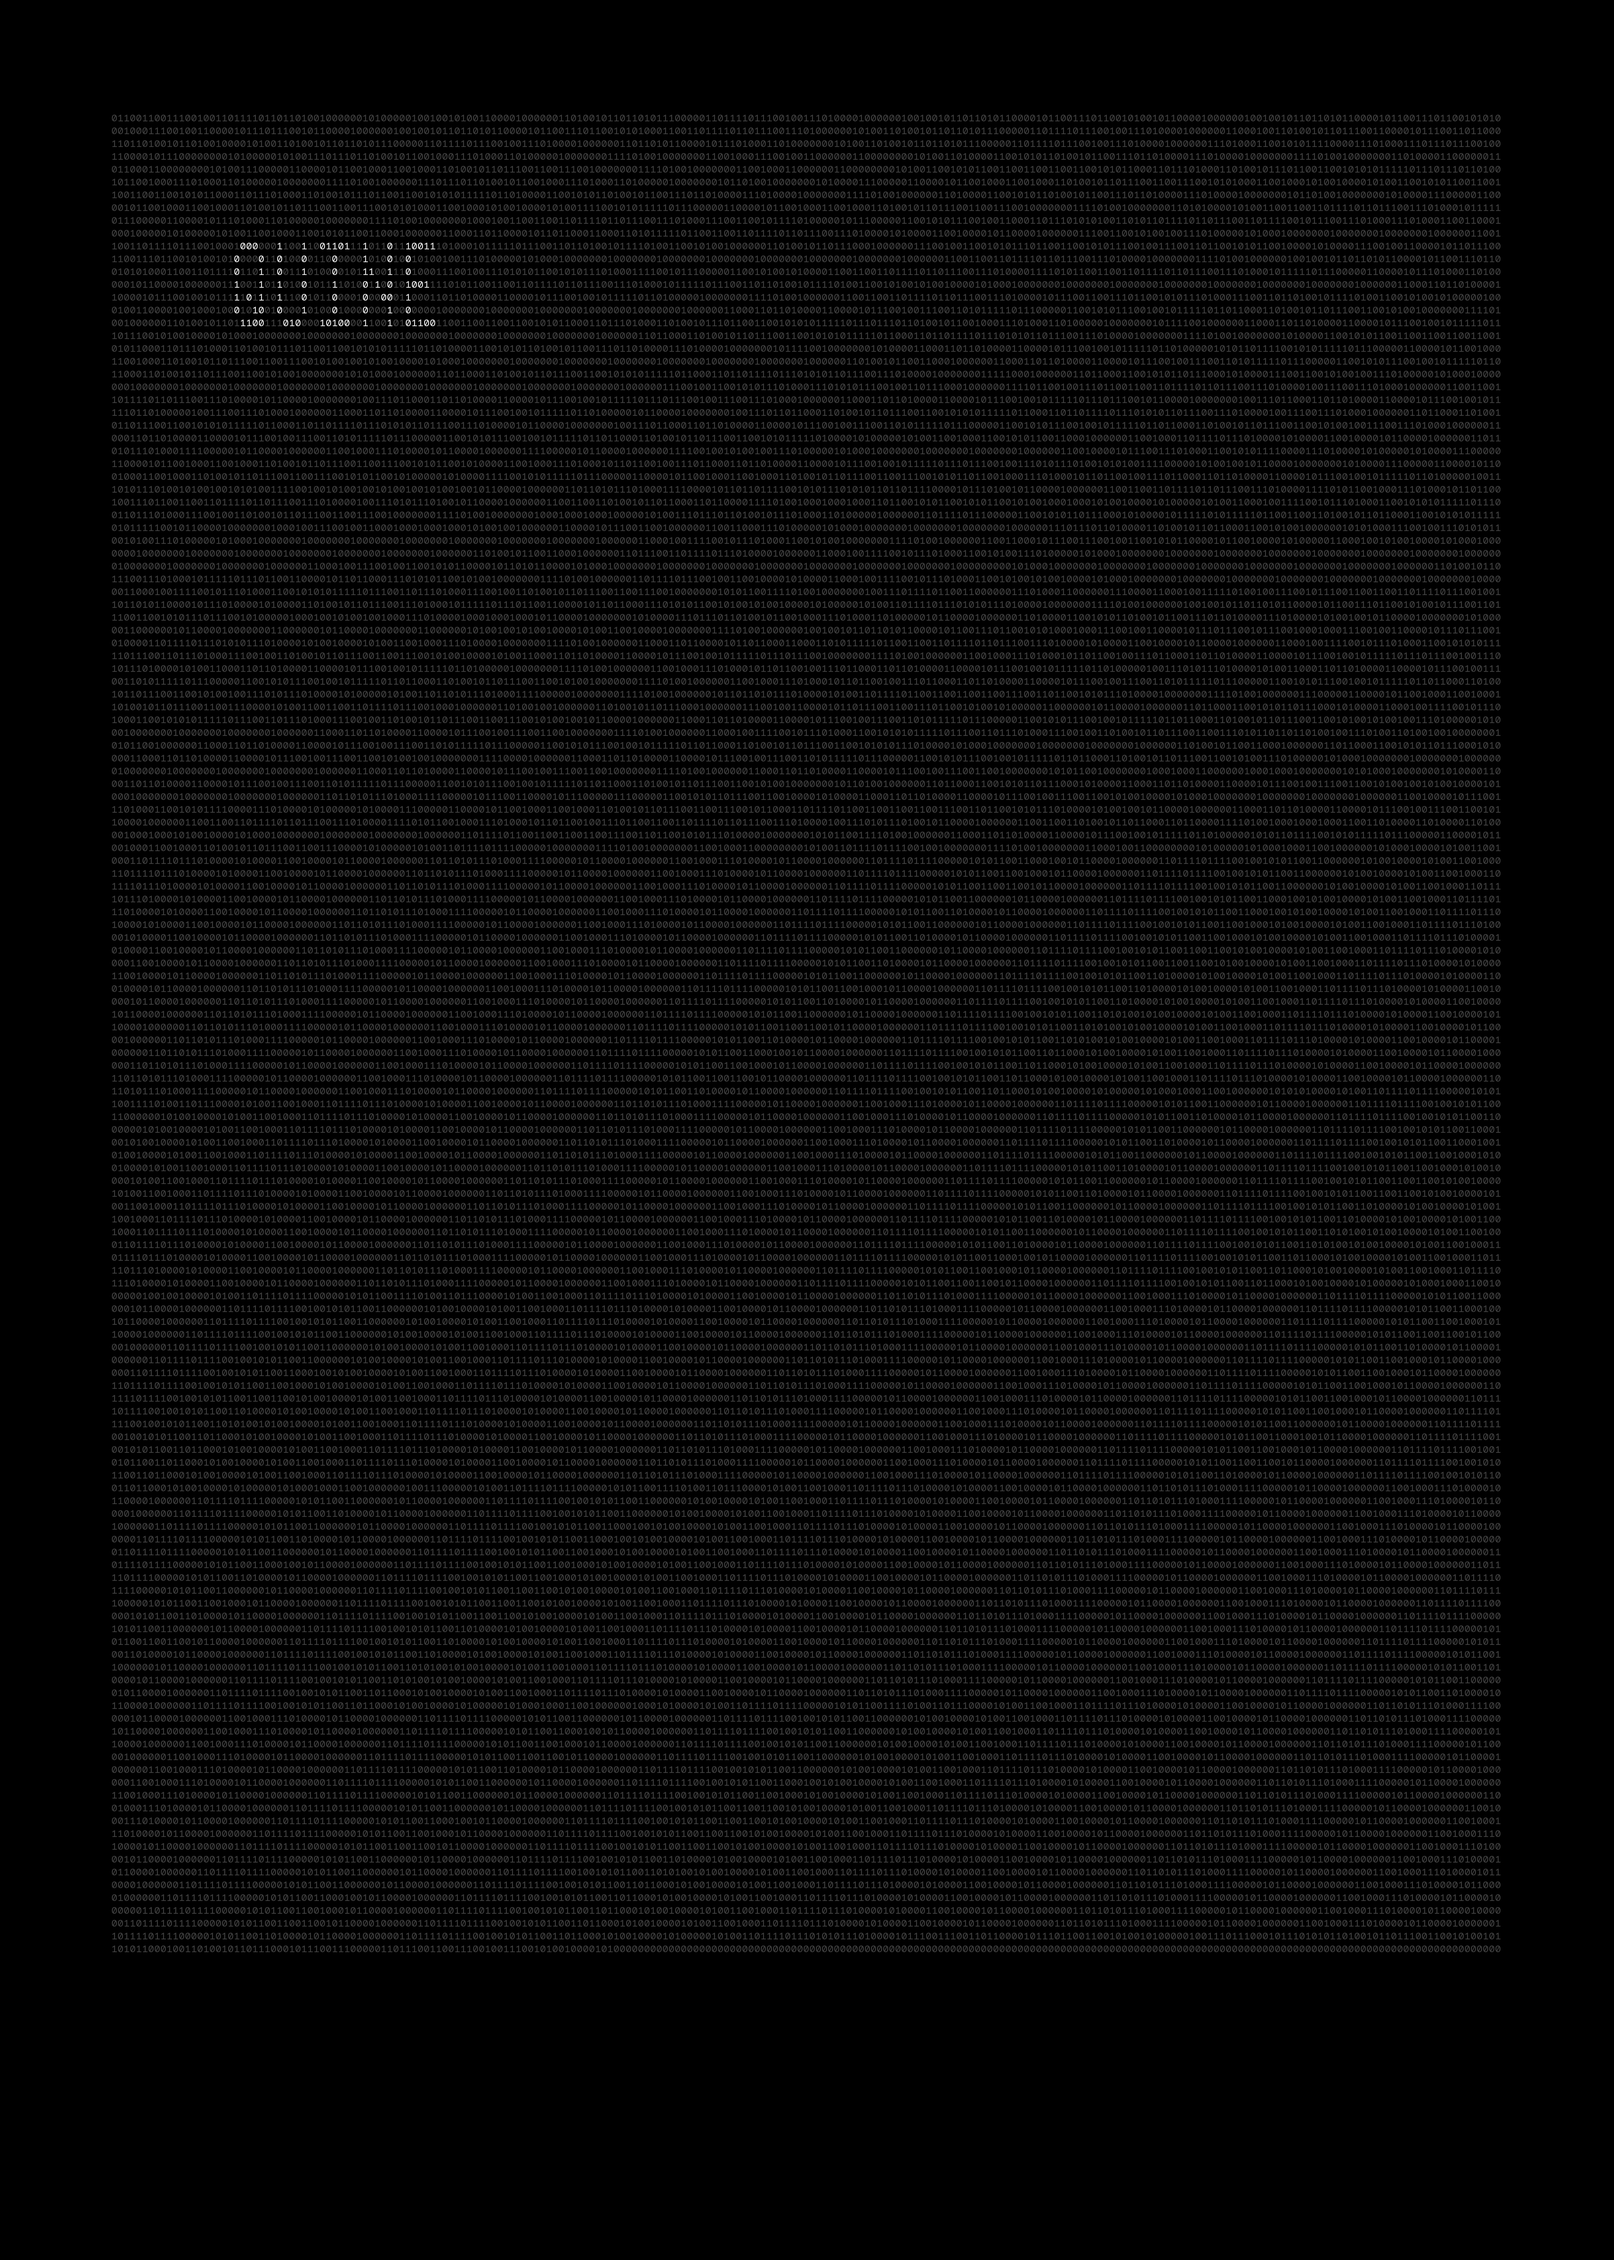
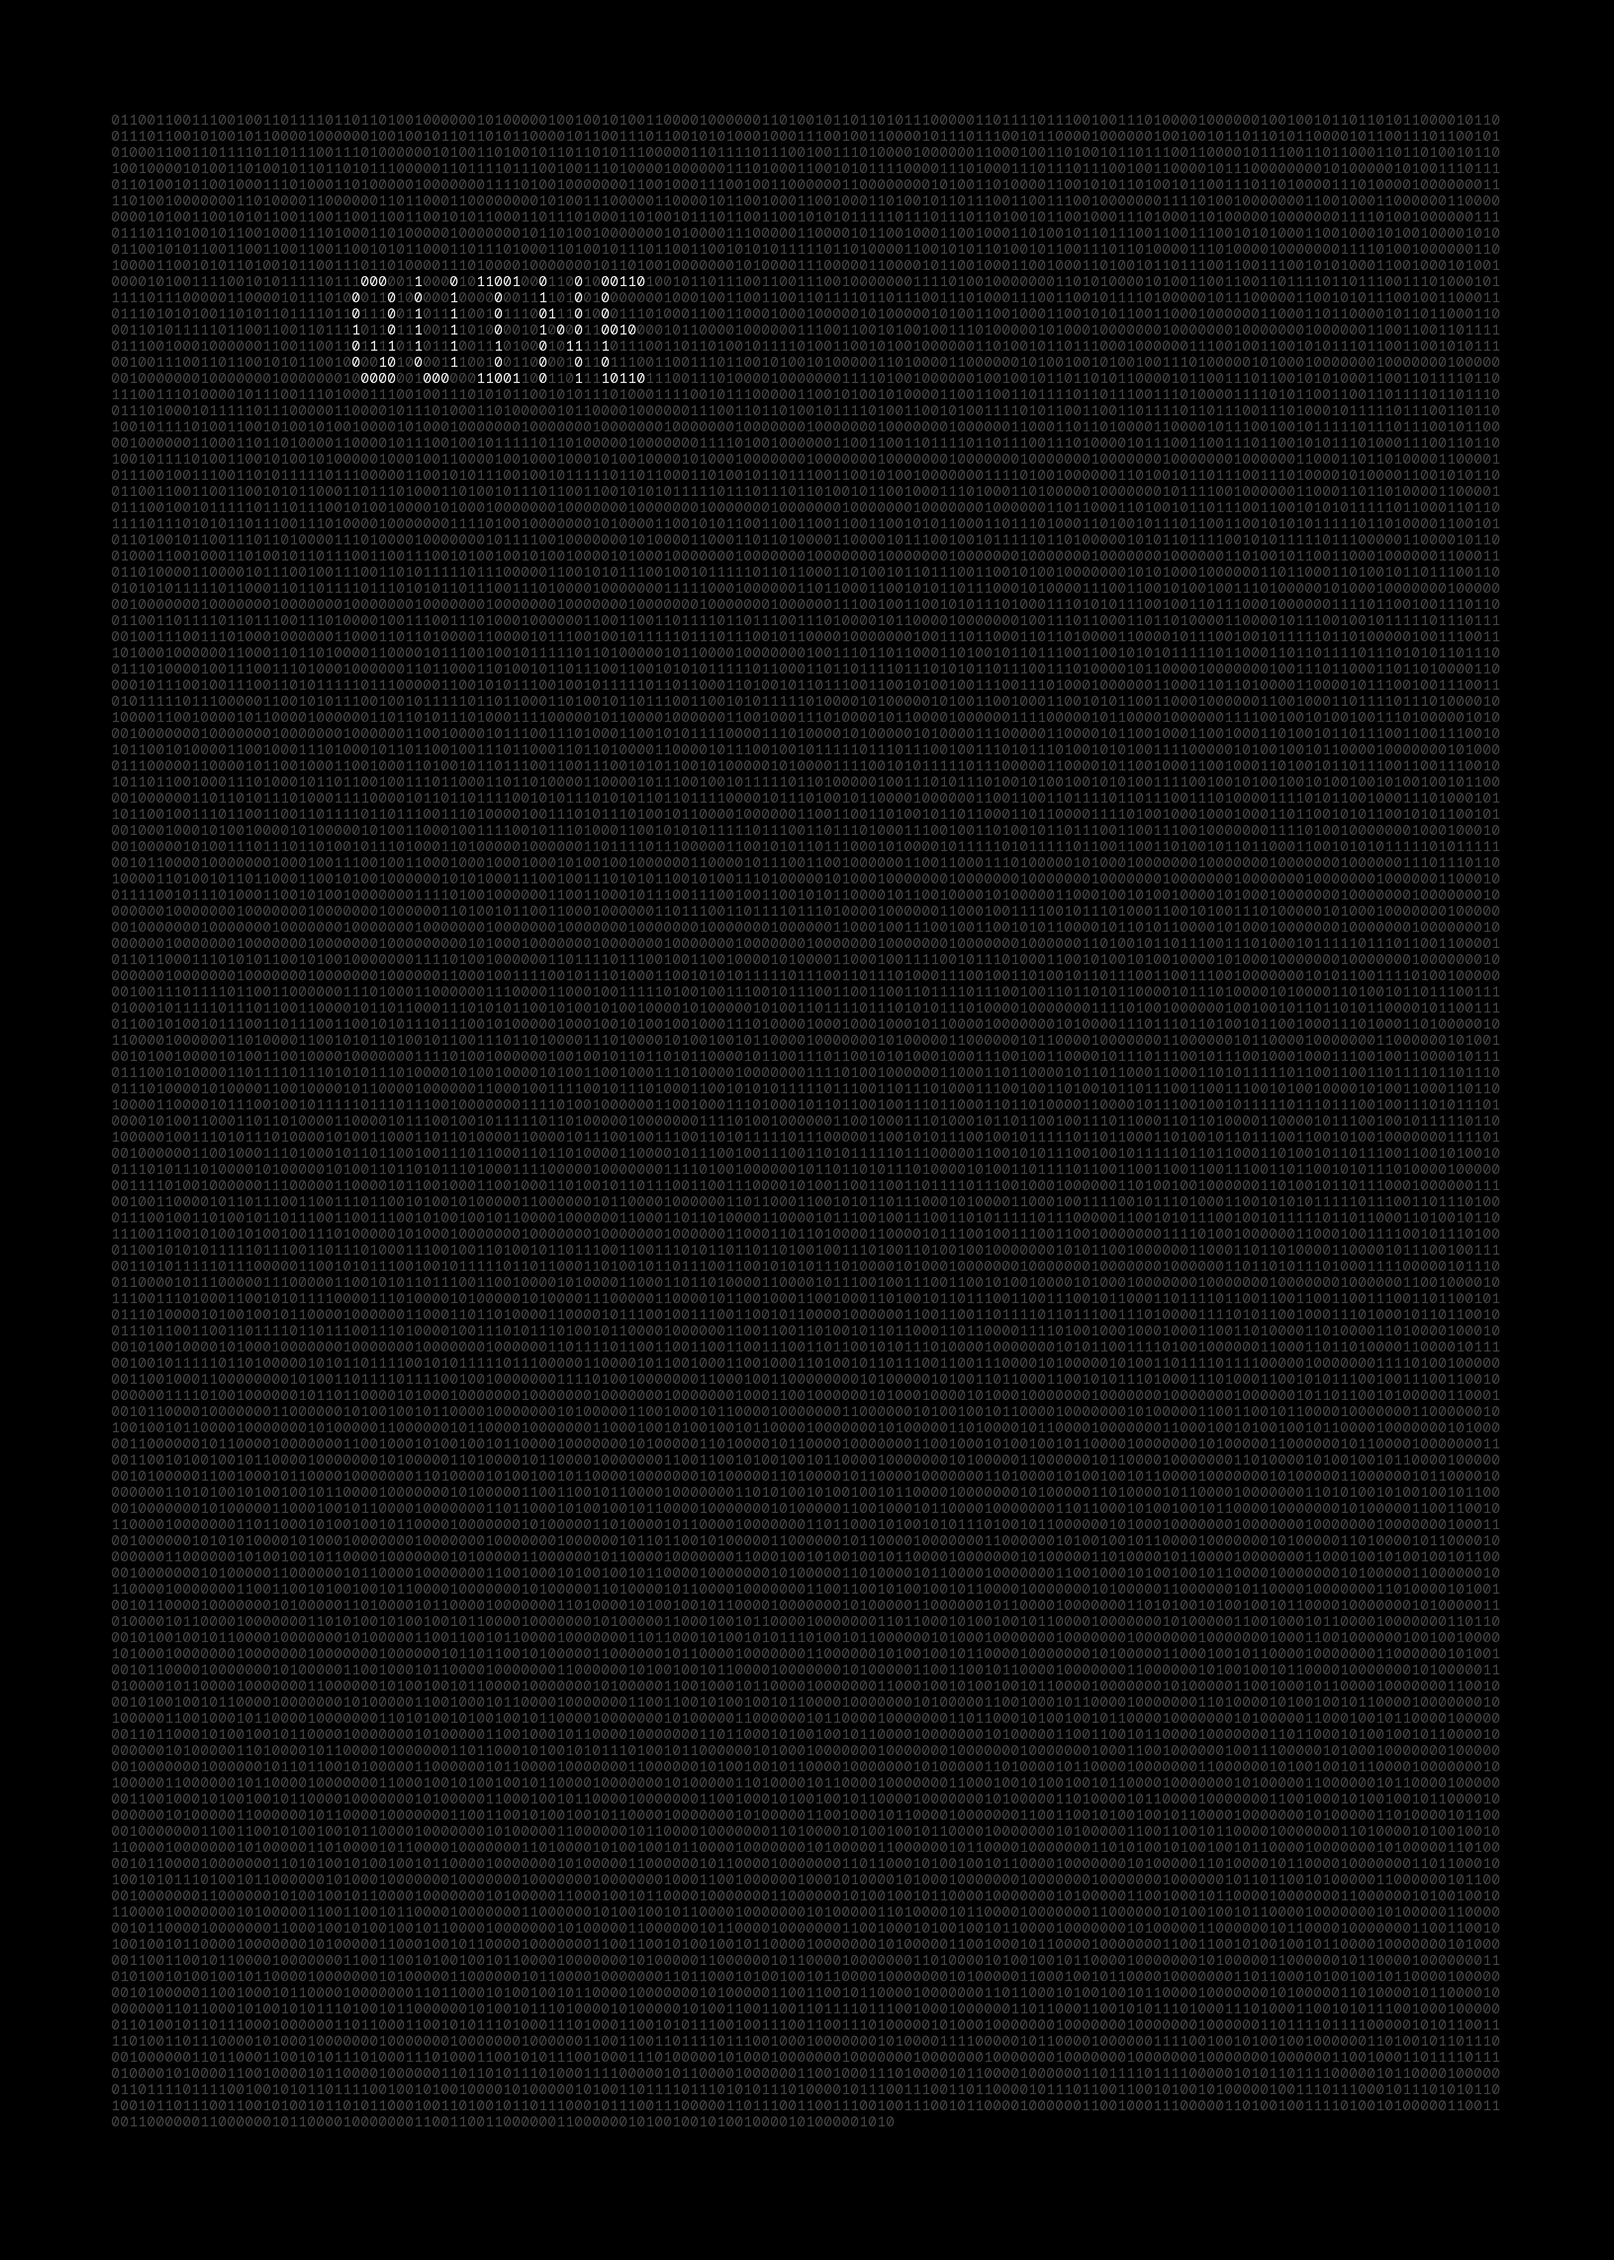
Add random script

Changed region(s): [[0.0621, 0.031, 0.931, 0.931]]

diff --git a/quine-hex.py b/quine-hex.py
@@ -1,6 +1,5 @@
 from PIL import Image, ImageDraw, ImageFont
 import binascii
-import math
 import textwrap
 
 width = 2900
@@ -12,7 +11,7 @@ y_padding = 5
 font_path = "fonts/ApercuMono.ttf"
 
 def calc_font(d, s):
-    for font_size in reversed(range(40)):
+    for font_size in reversed(range(60)):
         font = ImageFont.truetype(font=font_path, size=font_size)
         char_w, char_h = font.getsize("a")
         chars_per_line = int(effective_width / char_w)
@@ -38,111 +37,29 @@ mtx = []
 offset = padding
 for i in range(0, len(byte_string), chars_per_line):
     chars = byte_string[i:i + chars_per_line]
-    if len(chars) < chars_per_line:
-        chars = chars + "0" * (chars_per_line - len(chars))
     mtx.append(chars)
     d.text((padding,offset), chars, font=dt['font'], fill="#444")
     offset += char_h+y_padding
 
-ox = 20
+ox = 4
 oy = 10
 
-# Q
-dot(d, mtx, dt, ox+1, oy+0)
-dot(d, mtx, dt, ox+2, oy+0)
-dot(d, mtx, dt, ox+3, oy+0)
-dot(d, mtx, dt, ox+0, oy+1)
-dot(d, mtx, dt, ox+4, oy+1)
-dot(d, mtx, dt, ox+0, oy+2)
-dot(d, mtx, dt, ox+4, oy+2)
-dot(d, mtx, dt, ox+0, oy+3)
-dot(d, mtx, dt, ox+4, oy+3)
-dot(d, mtx, dt, ox+0, oy+4)
-dot(d, mtx, dt, ox+2, oy+4)
-dot(d, mtx, dt, ox+4, oy+4)
-dot(d, mtx, dt, ox+0, oy+5)
-dot(d, mtx, dt, ox+3, oy+5)
-dot(d, mtx, dt, ox+4, oy+5)
-dot(d, mtx, dt, ox+1, oy+6)
-dot(d, mtx, dt, ox+2, oy+6)
-dot(d, mtx, dt, ox+3, oy+6)
-dot(d, mtx, dt, ox+4, oy+6)
+letters = [
+    # Q
+    [(1, 0), (2, 0), (3, 0), (0, 1), (4, 1), (0, 2), (4, 2), (0, 3), (4, 3), (0, 4), (2, 4), (4, 4), (0, 5), (3, 5), (4, 5), (1, 6), (2, 6), (3, 6), (4, 6)],
+    # U
+    [(0, 0), (4, 0), (0, 1), (4, 1), (0, 2), (4, 2), (0, 3), (4, 3), (0, 4), (4, 4), (0, 5), (4, 5), (1, 6), (2, 6), (3, 6)],
+    # I
+    [(0, 0), (1, 0), (2, 0), (3, 0), (4, 0), (2, 1), (2, 2), (2, 3), (2, 4), (2, 5), (0, 6), (1, 6), (2, 6), (3, 6), (4, 6)],
+    # N
+    [(0, 0), (4, 0), (0, 1), (4, 1), (0, 2), (1, 2), (4, 2), (0, 3), (2, 3), (4, 3), (0, 4), (3, 4), (4, 4), (0, 5), (4, 5), (0, 6), (4, 6)],
+    # E
+    [(0, 0), (1, 0), (2, 0), (3, 0), (4, 0), (0, 1), (0, 2), (0, 3), (1, 3), (2, 3), (3, 3), (0, 4), (0, 5), (0, 6), (1, 6), (2, 6), (3, 6), (4, 6)],
+]
 
-# U
-ox+=7
-dot(d, mtx, dt, ox+0, oy+0)
-dot(d, mtx, dt, ox+4, oy+0)
-dot(d, mtx, dt, ox+0, oy+1)
-dot(d, mtx, dt, ox+4, oy+1)
-dot(d, mtx, dt, ox+0, oy+2)
-dot(d, mtx, dt, ox+4, oy+2)
-dot(d, mtx, dt, ox+0, oy+3)
-dot(d, mtx, dt, ox+4, oy+3)
-dot(d, mtx, dt, ox+0, oy+4)
-dot(d, mtx, dt, ox+4, oy+4)
-dot(d, mtx, dt, ox+0, oy+5)
-dot(d, mtx, dt, ox+4, oy+5)
-dot(d, mtx, dt, ox+1, oy+6)
-dot(d, mtx, dt, ox+2, oy+6)
-dot(d, mtx, dt, ox+3, oy+6)
+for letter in letters:
+    ox+=7
+    for (x, y) in letter:
+        dot(d, mtx, dt, ox+x, oy+y)
 
-# I
-ox+=7
-dot(d, mtx, dt, ox+0, oy+0)
-dot(d, mtx, dt, ox+1, oy+0)
-dot(d, mtx, dt, ox+2, oy+0)
-dot(d, mtx, dt, ox+3, oy+0)
-dot(d, mtx, dt, ox+4, oy+0)
-dot(d, mtx, dt, ox+2, oy+1)
-dot(d, mtx, dt, ox+2, oy+2)
-dot(d, mtx, dt, ox+2, oy+3)
-dot(d, mtx, dt, ox+2, oy+4)
-dot(d, mtx, dt, ox+2, oy+5)
-dot(d, mtx, dt, ox+0, oy+6)
-dot(d, mtx, dt, ox+1, oy+6)
-dot(d, mtx, dt, ox+2, oy+6)
-dot(d, mtx, dt, ox+3, oy+6)
-dot(d, mtx, dt, ox+4, oy+6)
-
-# N
-ox+=7
-dot(d, mtx, dt, ox+0, oy+0)
-dot(d, mtx, dt, ox+4, oy+0)
-dot(d, mtx, dt, ox+0, oy+1)
-dot(d, mtx, dt, ox+4, oy+1)
-dot(d, mtx, dt, ox+0, oy+2)
-dot(d, mtx, dt, ox+1, oy+2)
-dot(d, mtx, dt, ox+4, oy+2)
-dot(d, mtx, dt, ox+0, oy+3)
-dot(d, mtx, dt, ox+2, oy+3)
-dot(d, mtx, dt, ox+4, oy+3)
-dot(d, mtx, dt, ox+0, oy+4)
-dot(d, mtx, dt, ox+3, oy+4)
-dot(d, mtx, dt, ox+4, oy+4)
-dot(d, mtx, dt, ox+0, oy+5)
-dot(d, mtx, dt, ox+4, oy+5)
-dot(d, mtx, dt, ox+0, oy+6)
-dot(d, mtx, dt, ox+4, oy+6)
-
-# E
-ox+=7
-dot(d, mtx, dt, ox+0, oy+0)
-dot(d, mtx, dt, ox+1, oy+0)
-dot(d, mtx, dt, ox+2, oy+0)
-dot(d, mtx, dt, ox+3, oy+0)
-dot(d, mtx, dt, ox+4, oy+0)
-dot(d, mtx, dt, ox+0, oy+1)
-dot(d, mtx, dt, ox+0, oy+2)
-dot(d, mtx, dt, ox+0, oy+3)
-dot(d, mtx, dt, ox+1, oy+3)
-dot(d, mtx, dt, ox+2, oy+3)
-dot(d, mtx, dt, ox+3, oy+3)
-dot(d, mtx, dt, ox+0, oy+4)
-dot(d, mtx, dt, ox+0, oy+5)
-dot(d, mtx, dt, ox+0, oy+6)
-dot(d, mtx, dt, ox+1, oy+6)
-dot(d, mtx, dt, ox+2, oy+6)
-dot(d, mtx, dt, ox+3, oy+6)
-dot(d, mtx, dt, ox+4, oy+6)
-
-out.save('quine-hex.png')
+out.save('quine-hex.png', dpi=(300, 300))

diff --git a/quine-bin.py b/quine-bin.py
@@ -1,6 +1,5 @@
 from PIL import Image, ImageDraw, ImageFont
 import binascii
-import math
 import textwrap
 
 width = 2900
@@ -44,8 +43,6 @@ mtx = []
 offset = padding
 for i in range(0, len(byte_string), chars_per_line):
     chars = byte_string[i:i + chars_per_line]
-    if len(chars) < chars_per_line:
-        chars = chars + "0" * (chars_per_line - len(chars))
     mtx.append(chars)
     d.text((padding,offset), chars, font=dt['font'], fill="#444")
     offset += char_h+y_padding
@@ -53,102 +50,23 @@ for i in range(0, len(byte_string), chars_per_line):
 ox = 20
 oy = 10
 
-# Q
-dot(d, mtx, dt, ox+1, oy+0)
-dot(d, mtx, dt, ox+2, oy+0)
-dot(d, mtx, dt, ox+3, oy+0)
-dot(d, mtx, dt, ox+0, oy+1)
-dot(d, mtx, dt, ox+4, oy+1)
-dot(d, mtx, dt, ox+0, oy+2)
-dot(d, mtx, dt, ox+4, oy+2)
-dot(d, mtx, dt, ox+0, oy+3)
-dot(d, mtx, dt, ox+4, oy+3)
-dot(d, mtx, dt, ox+0, oy+4)
-dot(d, mtx, dt, ox+2, oy+4)
-dot(d, mtx, dt, ox+4, oy+4)
-dot(d, mtx, dt, ox+0, oy+5)
-dot(d, mtx, dt, ox+3, oy+5)
-dot(d, mtx, dt, ox+4, oy+5)
-dot(d, mtx, dt, ox+1, oy+6)
-dot(d, mtx, dt, ox+2, oy+6)
-dot(d, mtx, dt, ox+3, oy+6)
-dot(d, mtx, dt, ox+4, oy+6)
+letters = [
+    # Q
+    [(1, 0), (2, 0), (3, 0), (0, 1), (4, 1), (0, 2), (4, 2), (0, 3), (4, 3), (0, 4), (2, 4), (4, 4), (0, 5), (3, 5), (4, 5), (1, 6), (2, 6), (3, 6), (4, 6)],
+    # U
+    [(0, 0), (4, 0), (0, 1), (4, 1), (0, 2), (4, 2), (0, 3), (4, 3), (0, 4), (4, 4), (0, 5), (4, 5), (1, 6), (2, 6), (3, 6)],
+    # I
+    [(0, 0), (1, 0), (2, 0), (3, 0), (4, 0), (2, 1), (2, 2), (2, 3), (2, 4), (2, 5), (0, 6), (1, 6), (2, 6), (3, 6), (4, 6)],
+    # N
+    [(0, 0), (4, 0), (0, 1), (4, 1), (0, 2), (1, 2), (4, 2), (0, 3), (2, 3), (4, 3), (0, 4), (3, 4), (4, 4), (0, 5), (4, 5), (0, 6), (4, 6)],
+    # E
+    [(0, 0), (1, 0), (2, 0), (3, 0), (4, 0), (0, 1), (0, 2), (0, 3), (1, 3), (2, 3), (3, 3), (0, 4), (0, 5), (0, 6), (1, 6), (2, 6), (3, 6), (4, 6)],
+]
 
-# U
-ox+=7
-dot(d, mtx, dt, ox+0, oy+0)
-dot(d, mtx, dt, ox+4, oy+0)
-dot(d, mtx, dt, ox+0, oy+1)
-dot(d, mtx, dt, ox+4, oy+1)
-dot(d, mtx, dt, ox+0, oy+2)
-dot(d, mtx, dt, ox+4, oy+2)
-dot(d, mtx, dt, ox+0, oy+3)
-dot(d, mtx, dt, ox+4, oy+3)
-dot(d, mtx, dt, ox+0, oy+4)
-dot(d, mtx, dt, ox+4, oy+4)
-dot(d, mtx, dt, ox+0, oy+5)
-dot(d, mtx, dt, ox+4, oy+5)
-dot(d, mtx, dt, ox+1, oy+6)
-dot(d, mtx, dt, ox+2, oy+6)
-dot(d, mtx, dt, ox+3, oy+6)
+for letter in letters:
+    ox+=7
+    for (x, y) in letter:
+        dot(d, mtx, dt, ox+x, oy+y)
 
-# I
-ox+=7
-dot(d, mtx, dt, ox+0, oy+0)
-dot(d, mtx, dt, ox+1, oy+0)
-dot(d, mtx, dt, ox+2, oy+0)
-dot(d, mtx, dt, ox+3, oy+0)
-dot(d, mtx, dt, ox+4, oy+0)
-dot(d, mtx, dt, ox+2, oy+1)
-dot(d, mtx, dt, ox+2, oy+2)
-dot(d, mtx, dt, ox+2, oy+3)
-dot(d, mtx, dt, ox+2, oy+4)
-dot(d, mtx, dt, ox+2, oy+5)
-dot(d, mtx, dt, ox+0, oy+6)
-dot(d, mtx, dt, ox+1, oy+6)
-dot(d, mtx, dt, ox+2, oy+6)
-dot(d, mtx, dt, ox+3, oy+6)
-dot(d, mtx, dt, ox+4, oy+6)
+out.save('quine-bin.png', dpi=(300, 300))
 
-# N
-ox+=7
-dot(d, mtx, dt, ox+0, oy+0)
-dot(d, mtx, dt, ox+4, oy+0)
-dot(d, mtx, dt, ox+0, oy+1)
-dot(d, mtx, dt, ox+4, oy+1)
-dot(d, mtx, dt, ox+0, oy+2)
-dot(d, mtx, dt, ox+1, oy+2)
-dot(d, mtx, dt, ox+4, oy+2)
-dot(d, mtx, dt, ox+0, oy+3)
-dot(d, mtx, dt, ox+2, oy+3)
-dot(d, mtx, dt, ox+4, oy+3)
-dot(d, mtx, dt, ox+0, oy+4)
-dot(d, mtx, dt, ox+3, oy+4)
-dot(d, mtx, dt, ox+4, oy+4)
-dot(d, mtx, dt, ox+0, oy+5)
-dot(d, mtx, dt, ox+4, oy+5)
-dot(d, mtx, dt, ox+0, oy+6)
-dot(d, mtx, dt, ox+4, oy+6)
-
-# E
-ox+=7
-dot(d, mtx, dt, ox+0, oy+0)
-dot(d, mtx, dt, ox+1, oy+0)
-dot(d, mtx, dt, ox+2, oy+0)
-dot(d, mtx, dt, ox+3, oy+0)
-dot(d, mtx, dt, ox+4, oy+0)
-dot(d, mtx, dt, ox+0, oy+1)
-dot(d, mtx, dt, ox+0, oy+2)
-dot(d, mtx, dt, ox+0, oy+3)
-dot(d, mtx, dt, ox+1, oy+3)
-dot(d, mtx, dt, ox+2, oy+3)
-dot(d, mtx, dt, ox+3, oy+3)
-dot(d, mtx, dt, ox+0, oy+4)
-dot(d, mtx, dt, ox+0, oy+5)
-dot(d, mtx, dt, ox+0, oy+6)
-dot(d, mtx, dt, ox+1, oy+6)
-dot(d, mtx, dt, ox+2, oy+6)
-dot(d, mtx, dt, ox+3, oy+6)
-dot(d, mtx, dt, ox+4, oy+6)
-
-out.save('quine-bin.png')

diff --git a/random-hex.py b/random-hex.py
@@ -1,0 +1,75 @@
+from PIL import Image, ImageDraw, ImageFont
+import binascii
+import os
+import random
+import textwrap
+
+width = 2900
+height = 4060
+padding = 200
+effective_width = width - (padding*2)
+effective_height = height - (padding*2)
+y_padding = 5
+font_path = "fonts/ApercuMono.ttf"
+
+highlight_chance = 0.01
+
+def calc_font(d, s):
+    for font_size in reversed(range(40)):
+        font = ImageFont.truetype(font=font_path, size=font_size)
+        char_w, char_h = font.getsize("a")
+        chars_per_line = int(effective_width / char_w)
+        line_count = (effective_height / (char_h+y_padding))
+        if chars_per_line * line_count > len(s):
+            return {'font': font, 'char_w': char_w, 'char_h': char_h, 'line_count': line_count, 'chars_per_line': chars_per_line}
+
+def dot(d, mtx, dt, x, y, fill="#eee"):
+    d.text((padding+(dt['char_w']*x), (padding+((y_padding+dt['char_h'])*y))), mtx[y][x], font=dt['font'], fill=fill)
+
+
+byte_string = "0x" + binascii.b2a_hex(os.urandom(5000)).decode("utf-8")
+
+out = Image.new("RGB", (width, height), (0, 0, 0))
+d = ImageDraw.Draw(out)
+dt = calc_font(d, byte_string)
+char_w = dt['char_w']
+char_h = dt['char_h']
+chars_per_line = dt['chars_per_line']
+
+mtx = []
+offset = padding
+for i in range(0, len(byte_string), chars_per_line):
+    chars = byte_string[i:i + chars_per_line]
+    mtx.append(chars)
+    d.text((padding, offset), chars, font=dt['font'], fill="#444")
+    offset += char_h+y_padding
+
+for (y, i) in enumerate(range(0, len(byte_string), chars_per_line)):
+    for (x, char) in enumerate(byte_string[i:i + chars_per_line]):
+        if random.random() < highlight_chance:
+            dot(d, mtx, dt, x, y, fill='#666')
+
+ox = 20
+oy = 10
+
+letters = [
+    # R
+    [(0, 0), (1, 0), (2, 0), (3, 0), (0, 1), (4, 1), (0, 2), (4, 2), (0, 3), (4, 3), (0, 4), (1, 4), (2, 4), (3, 4), (0, 5), (4, 5), (0, 6), (4, 6)],
+    # A
+    [(1, 0), (2, 0), (3, 0), (0, 1), (4, 1), (0, 2), (4, 2), (0, 3), (4, 3), (0, 4), (1, 4), (2, 4), (3, 4), (4, 4), (0, 5), (4, 5), (0, 6), (4, 6)],
+    # N
+    [(0, 0), (4, 0), (0, 1), (4, 1), (0, 2), (1, 2), (4, 2), (0, 3), (2, 3), (4, 3), (0, 4), (3, 4), (4, 4), (0, 5), (4, 5), (0, 6), (4, 6)],
+    # D
+    [(0, 0), (1, 0), (2, 0), (3, 0), (0, 1), (4, 1), (0, 2), (4, 2), (0, 3), (4, 3), (0, 4), (4, 4), (0, 5), (4, 5), (0, 6), (1, 6), (2, 6), (3, 6)],
+    # O
+    [(1, 0), (2, 0), (3, 0), (0, 1), (4, 1), (0, 2), (4, 2), (0, 3), (4, 3), (0, 4), (4, 4), (0, 5), (4, 5), (1, 6), (2, 6), (3, 6)],
+    # M
+    [(0, 0), (4, 0), (0, 1), (1, 1), (3, 1), (4, 1), (0, 2), (2, 2), (4, 2), (0, 3), (4, 3), (0, 4), (4, 4), (0, 5), (4, 5), (0, 6), (4, 6)]
+]
+
+for letter in letters:
+    ox+=7
+    for (x, y) in letter:
+        dot(d, mtx, dt, ox+x, oy+y)
+
+out.save('random-hex.png', dpi=(300, 300))
